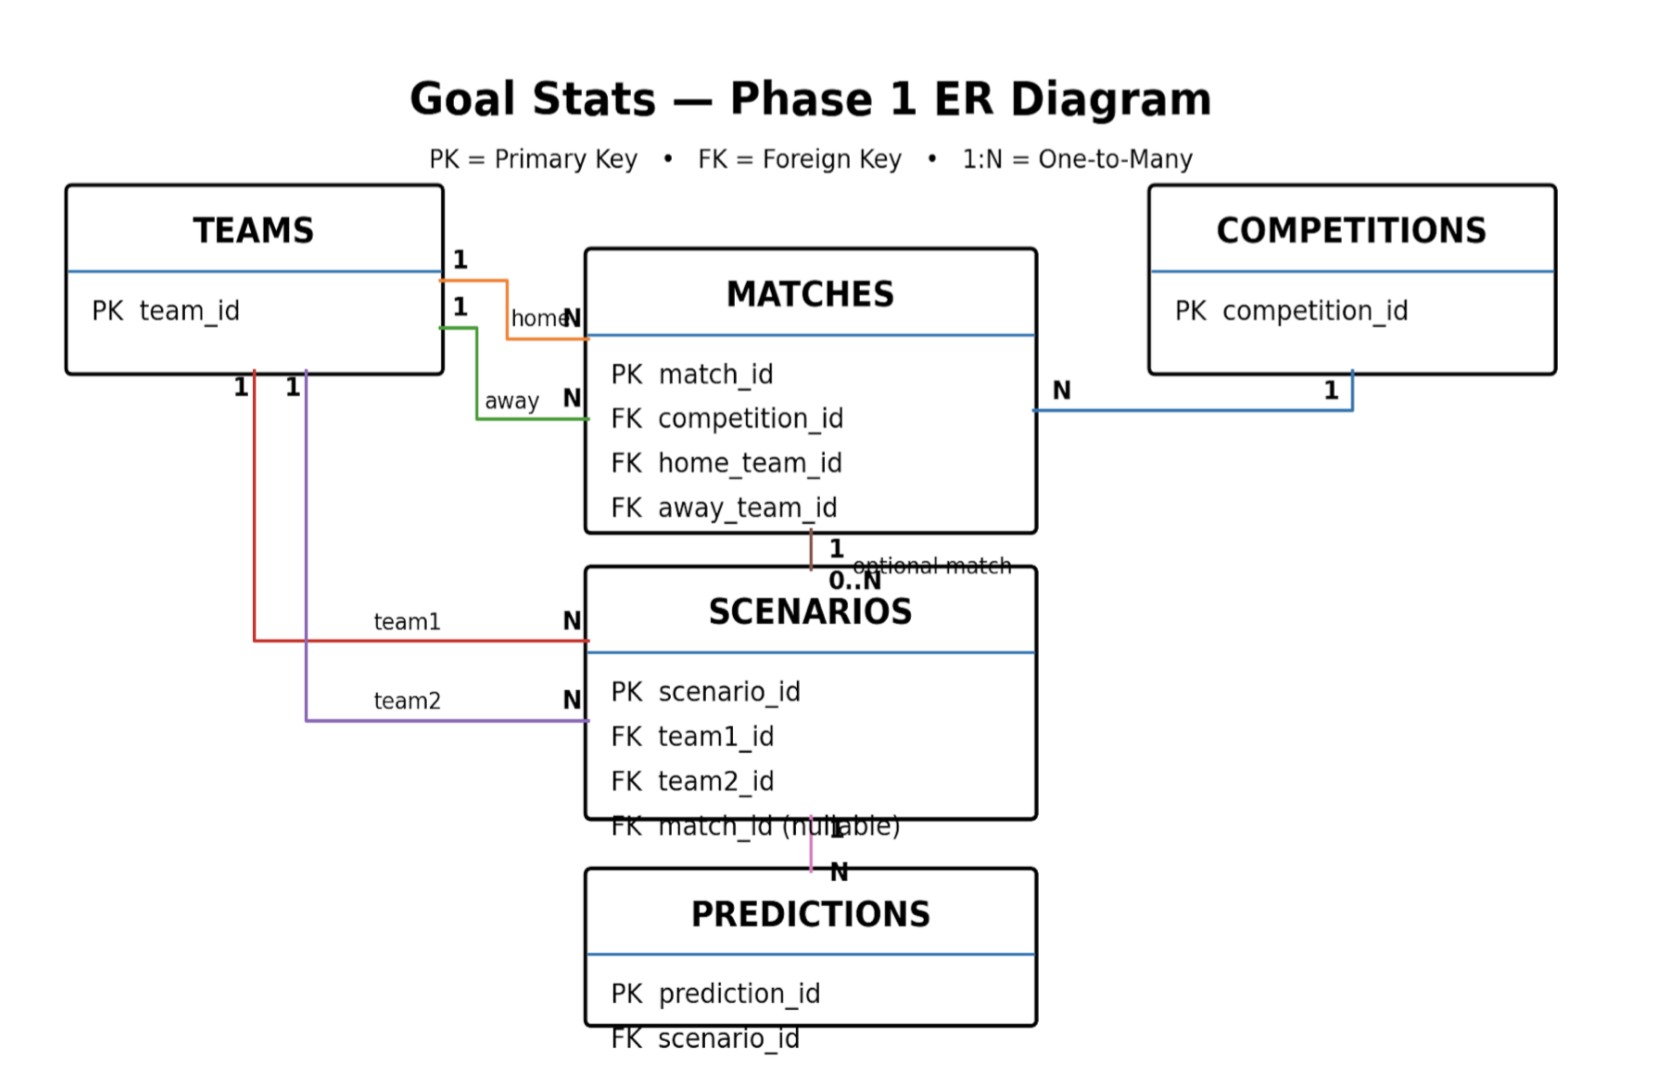
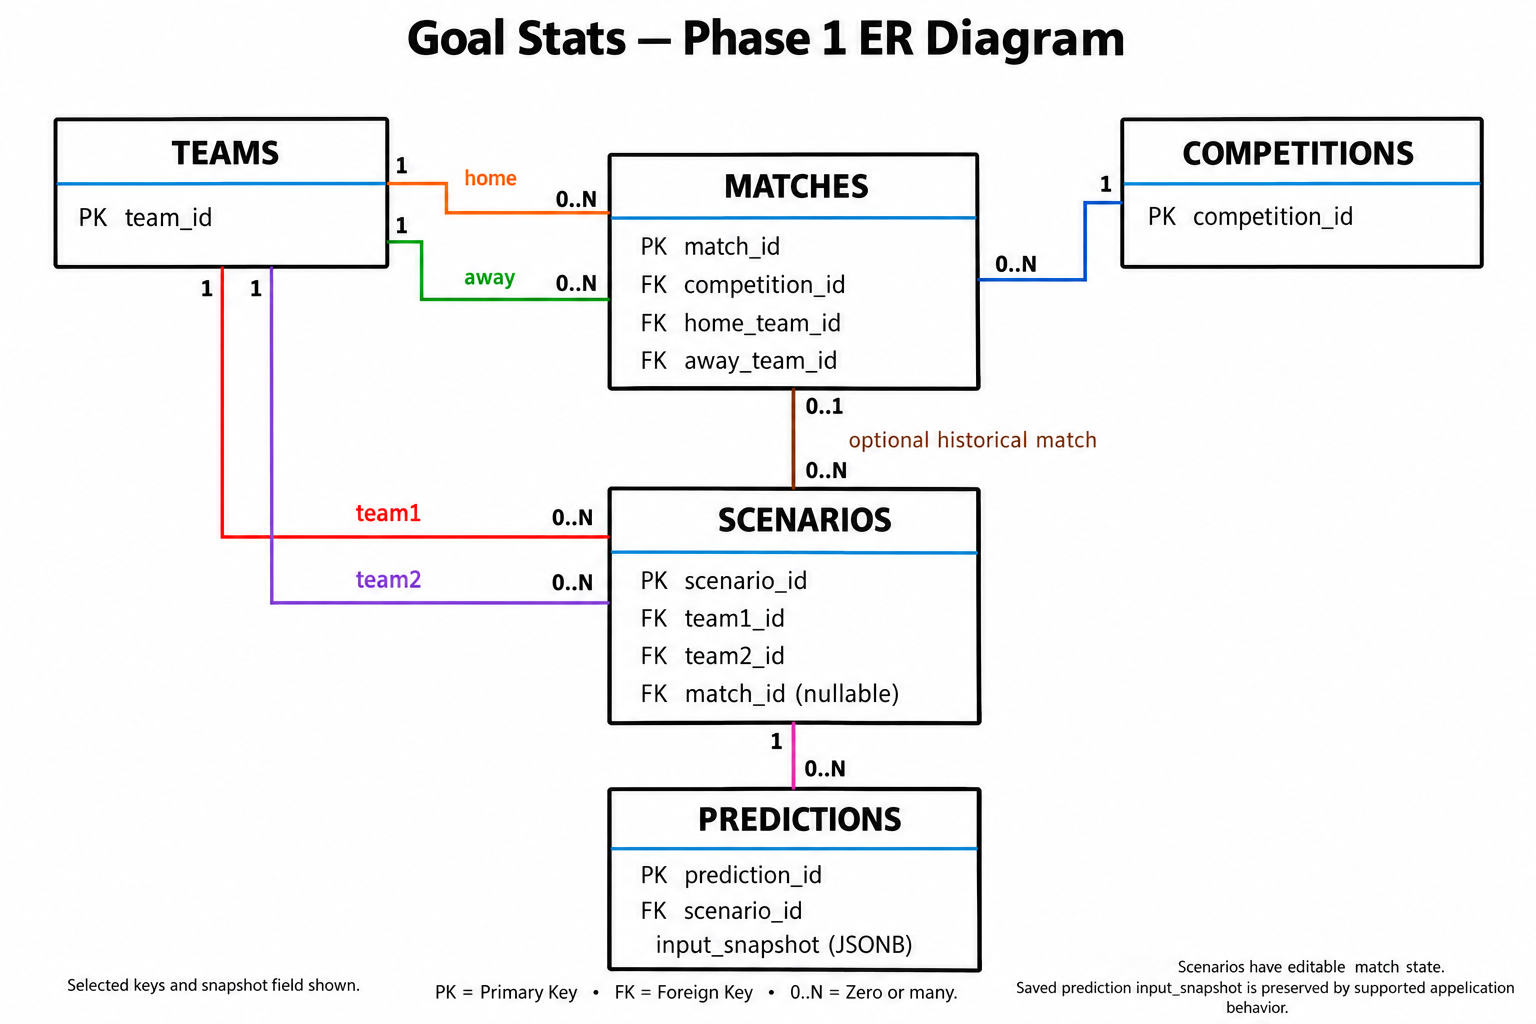
project page fixes for phase1 delieverables.

Changed region(s): [[0.0312, 0.0, 0.9688, 1.0], [0.6562, 0.9375, 0.9688, 1.0], [0.0312, 0.9375, 0.2188, 0.9688]]

diff --git a/src/app/project/page.tsx b/src/app/project/page.tsx
@@ -12,7 +12,7 @@ export default function ProjectPage() {
     >
       {/* Navigation Bar */}
       <div className="mx-auto max-w-6xl">
-            <ViewNavigation currentPath="/about" />
+            <ViewNavigation currentPath="/project" />
         </div>
 
       {/* Project Content */}
@@ -29,9 +29,9 @@ export default function ProjectPage() {
 
         <p className="mt-6 max-w-4xl text-lg leading-relaxed text-gray-300">
           Goal Stats is a database-driven football prediction and analytics
-          application focused on the 2027 FIFA Women's World Cup.
+          application focused on the 2027 FIFA Women&apos;s World Cup.
           Our project combines historical match data, team statistics,
-          and prediction models to help users explore women's football
+          and prediction models to help users explore women&apos;s football
           through interactive data analysis.
         </p>
 
@@ -45,17 +45,27 @@ export default function ProjectPage() {
           </h2>
 
           <p className="leading-relaxed text-gray-300">
-            Developed by Team Squared, Goal Stats aims to make women's
+            Developed by Team Squared, Goal Stats aims to make women&apos;s
             football statistics and match predictions more accessible.
             The application is designed to allow users to explore
             international teams, compare historical match information,
             create match scenarios, and generate predictions.
 
-            Our project builds a platform that introduces a MySQL relational database
+            Our deployed application uses a PostgreSQL relational database
             to store teams, competitions, matches, scenarios, and
             prediction results.
           </p>
 
+        </section>
+
+        <section className="mt-12 rounded-2xl border border-white/10 bg-[#071825] p-8">
+          <div className="mb-4 h-1 w-16 rounded-full bg-pink-500" />
+          <h2 className="mb-4 text-2xl font-bold">Production Architecture & Historical Catalog</h2>
+          <p className="leading-relaxed text-gray-300">
+            Next.js / React on Vercel → Next.js server-side API proxy → Python / Flask on Render → PostgreSQL on Render.
+            The historical catalog contains 44 national teams, nine Women&apos;s World Cup editions (1991–2023),
+            348 matches and 1,081 goals. These are historical records, not 2027 fixtures or live match feeds.
+          </p>
         </section>
 
         {/* How Goal Stats Works */}
@@ -113,7 +123,7 @@ export default function ProjectPage() {
                 Team Exploration
             </h3>
             <p className="leading-relaxed text-gray-300">
-                Users can explore international women's football
+                Users can explore international women&apos;s football
                 teams, compare team information, and examine
                 historical match performances.
             </p>
@@ -136,6 +146,27 @@ export default function ProjectPage() {
         </div>
         </section>
 
+        <section className="mt-12 rounded-2xl border border-white/10 bg-[#071825] p-8">
+          <div className="mb-4 h-1 w-16 rounded-full bg-pink-500" />
+          <h2 className="mb-4 text-2xl font-bold">How to Use Goal Stats</h2>
+          <ol className="list-decimal space-y-3 pl-5 leading-relaxed text-gray-300">
+            <li>Open Teams to explore the historical catalog and compare teams.</li>
+            <li>Open Matches to browse historical matches or use the hypothetical scenario form. Browsing a historical match does not populate hypothetical inputs.</li>
+            <li>Select two distinct teams in the scenario form.</li>
+            <li>Enter both teams&apos; match statistics, score and Minute. Possession must total 100%.</li>
+            <li>Enter all ten hypothetical strength assumptions: offense, defense, form, star power and clutch for each team (0–100). These are your assumptions, not verified FIFA rankings.</li>
+            <li>Select Generate Preview → to open the prediction preview.</li>
+            <li>Review win/draw/loss probabilities, expected goals, likely scoreline and supported explanations. An unsaved preview is temporary and is not a persistent database record.</li>
+            <li>Select Save new scenario and prediction to persist the scenario and its result.</li>
+            <li>Return to Predictions to browse saved scenarios, use Reopen scenario # to edit supported match state, or Open predictions to inspect saved history. Save scenario changes updates match state; Generate another saved prediction appends a result without replacing earlier predictions.</li>
+            <li>From a saved prediction, select View Analytics → to inspect its saved results and input snapshot.</li>
+          </ol>
+          <p className="mt-6 leading-relaxed text-gray-300">
+            Saved scenarios and predictions are shared classroom-prototype records. Tournament simulation
+            and backtesting execution are future work and are not available through the current interface.
+          </p>
+        </section>
+
             {/* Database Design */}
             <section className="mt-12">
 
@@ -148,9 +179,9 @@ export default function ProjectPage() {
             </h2>
 
             <p className="mb-8 max-w-4xl leading-relaxed text-gray-300">
-            Goal Stats is designed to use a MySQL relational database
+            Goal Stats uses a PostgreSQL relational database
             to organize and store football information. The database
-            will provide persistent storage for teams, competitions,
+            provides persistent storage for teams, competitions,
             historical matches, user-created scenarios, and prediction
             results. Primary and foreign keys connect related
             information while reducing unnecessary data duplication.
@@ -169,23 +200,23 @@ export default function ProjectPage() {
                 {[
                 {
                     name: "Teams",
-                    description: "Stores team information and prediction model inputs."
+                    description: "Primary key: team_id. Stores team identity and attributed ratings when available; hypothetical strengths are supplied explicitly."
                 },
                 {
                     name: "Competitions",
-                    description: "Stores tournament and competition information."
+                    description: "Primary key: competition_id. Stores tournament edition information."
                 },
                 {
                     name: "Matches",
-                    description: "Stores historical match data and results."
+                    description: "Primary key: match_id. Foreign keys: competition_id, home_team_id and away_team_id reference competitions and teams. Stores historical results and source provenance."
                 },
                 {
                     name: "Scenarios",
-                    description: "Stores user-created match scenarios and statistics."
+                    description: "Primary key: scenario_id. Foreign keys: team1_id and team2_id reference teams; nullable match_id optionally references one historical match. Match state is editable; changing teams or strength assumptions requires a new scenario."
                 },
                 {
                     name: "Predictions",
-                    description: "Stores generated prediction results for match scenarios."
+                    description: "Primary key: prediction_id. Foreign key: scenario_id references one scenario. Stores results, model_version, generated_at and the original input_snapshot (JSONB). One scenario can have many saved predictions."
                 }
                 ].map((table) => (
                 <div
@@ -244,8 +275,9 @@ export default function ProjectPage() {
                 </div>
 
                 <p className="mt-5 text-sm text-gray-400">
+                <a className="text-pink-400 underline" href="/images/goal-stats-er-diagram.png">Open full-size ER diagram</a><br />
                 PK = Primary Key | FK = Foreign Key |
-                1:N = One-to-Many Relationship
+                0..1 = Zero or one | 0..N = Zero or many. Selected keys and snapshot field shown.
                 </p>
             </div>
             </section>
@@ -271,7 +303,7 @@ export default function ProjectPage() {
                 {[
                     {
                     name: "Competitions → Matches",
-                    detail: "One competition can contain multiple matches."
+                    detail: "Each match belongs to exactly one competition; a competition can contain zero or many matches."
                     },
                     {
                     name: "Teams → Matches",
@@ -287,7 +319,7 @@ export default function ProjectPage() {
                     },
                     {
                     name: "Scenarios → Predictions",
-                    detail: "One scenario can have multiple generated prediction results."
+                    detail: "Each saved prediction belongs to exactly one scenario; a scenario can have zero or many saved predictions."
                     }
                 ].map((item) => (
                     <div
@@ -307,9 +339,11 @@ export default function ProjectPage() {
                 <p className="mt-6 leading-relaxed text-gray-300">
                 Teams and competitions are not repeated inside historical
                 match records, while prediction results are stored separately
-                from the scenarios that generated them. Each scenario preserves
-                the model inputs used for a prediction, allowing saved results
-                to remain reproducible even if team ratings change over time.
+                from the scenarios that generated them. Scenario match state can be edited.
+                Each saved prediction preserves its original input_snapshot and outputs;
+                supported application operations append predictions and do not overwrite
+                prediction history when a scenario changes. This is application behavior,
+                not a claim that database administrators cannot modify records.
                 </p>
             </div>
             </section>
@@ -327,7 +361,7 @@ export default function ProjectPage() {
             <p className="mb-8 text-lg leading-relaxed text-gray-300">
                 Goal Stats combines web development, database technology,
                 and predictive analytics to create an interactive platform
-                for women's football. Our application is designed to connect
+                for women&apos;s football. Our application connects
                 a user-friendly interface with backend services and a
                 relational database to organize match information and
                 generate statistical predictions.
@@ -349,9 +383,9 @@ export default function ProjectPage() {
                 },
                 {
                     name: "Database Management",
-                    technology: "MySQL",
+                    technology: "PostgreSQL",
                     description:
-                    "Our planned MySQL relational database organizes teams, competitions, historical matches, scenarios, and prediction results. Primary and foreign keys connect related records and help maintain data consistency."
+                    "Our deployed PostgreSQL relational database organizes teams, competitions, historical matches, scenarios, and prediction results. Primary and foreign keys connect related records and help maintain data consistency."
                 },
                 {
                     name: "Predictive Analytics",
@@ -382,6 +416,38 @@ export default function ProjectPage() {
             </div>
             </section>
 
+        <section className="mt-12 rounded-2xl border border-white/10 bg-[#071825] p-8">
+          <div className="mb-4 h-1 w-16 rounded-full bg-pink-500" />
+          <h2 className="mb-4 text-2xl font-bold">Project Deliverables</h2>
+          <ul className="list-disc space-y-3 pl-5 leading-relaxed text-gray-300">
+            <li><a className="text-pink-400 underline" href="https://goal-stats-app.vercel.app/">Working application</a></li>
+            <li><a className="text-pink-400 underline" href="https://github.com/WestiferRobin/goal-stats-app">Frontend repository</a></li>
+            <li><a className="text-pink-400 underline" href="https://github.com/WestiferRobin/goal-stats-service">Backend repository</a></li>
+            <li>Use About and Blog in the navigation for the team introduction and project reflections.</li>
+            <li>Technical database document — public URL: PENDING. The Google Drive document exists but is not finalized or exported as a public PDF. Finalize its design, implementation, course concepts, screenshots and user guide; then publish, verify and integrate the PDF link.</li>
+            <li>Phase 1 presentation — public URL: PENDING. The Google Slides presentation exists; public access and team approval have not been verified.</li>
+          </ul>
+        </section>
+
+        <section className="mt-12 rounded-2xl border border-white/10 bg-[#071825] p-8">
+          <div className="mb-4 h-1 w-16 rounded-full bg-pink-500" />
+          <h2 className="mb-4 text-2xl font-bold">Original Development & AI Assistance</h2>
+          <p className="leading-relaxed text-gray-300">
+            Goal Stats builds upon the earlier RoadToTheFinal football prediction prototype. Team Squared
+            expanded the project with a React/Next.js frontend, Flask REST APIs, a PostgreSQL database,
+            historical Women&apos;s World Cup data integration, persistent match scenarios, prediction history,
+            automated testing, and cloud deployment.
+          </p>
+          <p className="mt-4 leading-relaxed text-gray-300">
+            AI tools, including ChatGPT and Codex, assisted with development, debugging, refactoring, testing,
+            and documentation. The team adapted and integrated AI-assisted work, corrected implementation
+            issues, and verified functionality through automated and application testing.
+          </p>
+          <p className="mt-4 leading-relaxed text-gray-300">
+            <strong>Reference:</strong> RoadToTheFinal — <a className="text-pink-400 underline" href="https://github.com/Estebansito1/RoadToTheFinal">https://github.com/Estebansito1/RoadToTheFinal</a>
+          </p>
+        </section>
+
             {/* Current Progress & Development */}
 
             <section className="mt-16">
@@ -396,8 +462,8 @@ export default function ProjectPage() {
             <p className="mb-10 text-lg leading-relaxed text-gray-300">
                 Team Squared is developing Goal Stats in phases, beginning with
                 application planning, database design, and website development.
-                Our current focus is connecting the different components into
-                a functional database-driven football analytics platform.
+                The frontend, API proxy, Flask service and PostgreSQL database are integrated.
+                Current work focuses on documentation, data quality and validation.
             </p>
 
             <div className="grid grid-cols-1 gap-6 md:grid-cols-3">
@@ -412,10 +478,10 @@ export default function ProjectPage() {
 
                 <ul className="list-disc space-y-3 pl-5 leading-relaxed text-gray-300">
                     <li>Established the Goal Stats project concept and objectives.</li>
-                    <li>Developed the initial website pages and navigation.</li>
+                    <li>Integrated the website pages with the normalized backend API.</li>
                     <li>Created the Phase 1 Entity Relationship (ER) diagram.</li>
-                    <li>Identified the main database tables and relationships.</li>
-                    <li>Documented the application features and technology stack.</li>
+                    <li>Implemented the five PostgreSQL tables and their relationships.</li>
+                    <li>Implemented historical browsing, scenario persistence and saved prediction analytics.</li>
                 </ul>
                 </article>
 
@@ -428,8 +494,8 @@ export default function ProjectPage() {
                 </h3>
 
                 <ul className="list-disc space-y-3 pl-5 leading-relaxed text-gray-300">
-                    <li>Preparing the MySQL database implementation.</li>
-                    <li>Planning database integration with backend services.</li>
+                    <li>Finalizing the technical database PDF and deliverable links.</li>
+                    <li>Documenting team contributions and review of AI-assisted work.</li>
                     <li>Refining match scenarios and prediction functionality.</li>
                     <li>Improving website design and user experience.</li>
                     <li>Reviewing the consistency of football data and statistics.</li>
@@ -445,9 +511,9 @@ export default function ProjectPage() {
                 </h3>
 
                 <ul className="list-disc space-y-3 pl-5 leading-relaxed text-gray-300">
-                    <li>Obtaining reliable historical women's football data.</li>
+                    <li>Obtaining reliable historical women&apos;s football data.</li>
                     <li>Maintaining data accuracy and database consistency.</li>
-                    <li>Connecting frontend, backend, and database components.</li>
+                    <li>Monitoring the integrated frontend, backend, and database components.</li>
                     <li>Testing prediction results and application functionality.</li>
                     <li>Preparing the platform for future tournament analysis.</li>
                 </ul>
@@ -471,8 +537,8 @@ export default function ProjectPage() {
                 Our goal is to develop an interactive, database-driven platform
                 that combines football statistics, predictive analytics, and
                 accessible technology. Through Goal Stats, Team Squared hopes
-                to make women's football data easier to explore while promoting
-                greater recognition of women's teams and athletes.
+                to make women&apos;s football data easier to explore while promoting
+                greater recognition of women&apos;s teams and athletes.
             </p>
 
             <div className="grid grid-cols-1 gap-6 md:grid-cols-3">
@@ -486,7 +552,7 @@ export default function ProjectPage() {
                 </h3>
 
                 <p className="leading-relaxed text-gray-300">
-                    Provide users with an easy way to explore women's football
+                    Provide users with an easy way to explore women&apos;s football
                     teams, compare historical performances, analyze match
                     statistics, and generate predictions through an
                     interactive website.
@@ -502,7 +568,7 @@ export default function ProjectPage() {
                 </h3>
 
                 <p className="leading-relaxed text-gray-300">
-                    Implement a MySQL relational database to organize teams,
+                    Maintain the implemented PostgreSQL relational database to organize teams,
                     competitions, historical matches, prediction scenarios,
                     and generated results while maintaining data accuracy,
                     consistency, and accessibility.
@@ -514,14 +580,14 @@ export default function ProjectPage() {
                 <div className="mb-6 h-1 w-16 rounded-full bg-pink-500" />
 
                 <h3 className="mb-4 text-2xl font-bold text-white">
-                    Promoting Women's Football
+                    Promoting Women&apos;s Football
                 </h3>
 
                 <p className="leading-relaxed text-gray-300">
-                    Increase awareness and recognition of women's football
+                    Increase awareness and recognition of women&apos;s football
                     by creating a platform that highlights international
                     teams, player achievements, and statistical insights
-                    leading toward the 2027 FIFA Women's World Cup.
+                    leading toward the 2027 FIFA Women&apos;s World Cup.
                 </p>
                 </article>
 
